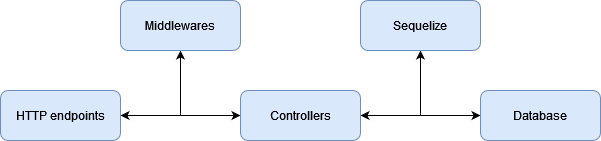
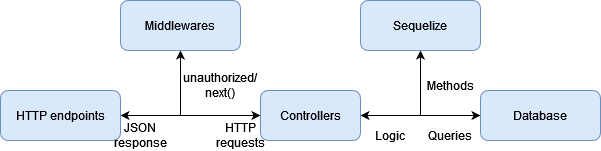
Added more images and general documentation

diff --git a/README.md b/README.md
@@ -10,8 +10,12 @@ Nota: los presentes iconos fueron tomados de la herramienta gratuita DrawIO.
 La REST API está basada en un diseño MVC, con una organización específica de los directorios con acceso a los datos de la base de datos (/models; aunque esto es gestionado principalmente por las funcionalidades del módulo de Sequelice) y controladores (manejo de peticiones HTTP; /controllers).
 
 El flujo de datos de puede resumirse en el siguiente esquema:
+![Flujo de datos general](/media/api-dataflow.png)
 
 La base de datos recide en Render, lo que facilita que otros usuarios puedan probar este recurso sin necesidad a priori de tener un gestor de bases de datos local. Se utilizó el gestor de DBeaver para visualizar la base de datos y garantizar una correcta estructura de los datos.
+
+La autenticación de usuarios se realiza por medio tokens de acceso y encriptación básica de las contraseñas con bcryptjs. La autorización también está basada en la revisión del encabezado de 'Authorization' de la petición HTTP, que para el caso solo puede ser demostrada colocando el token de acceso manualmente. Para garantizar un flujo más flexible de esta autorización, y evitar que el usuario deba logearse cada 15 minutos, se añadió una lógica basada en tokens de refresco, la cuál se basa en el siguiente algoritmo:
+![Flujo de lógica de token de refresco](/media/api-refresh-token-logic.png)
 
 ## Tecnologías
 
